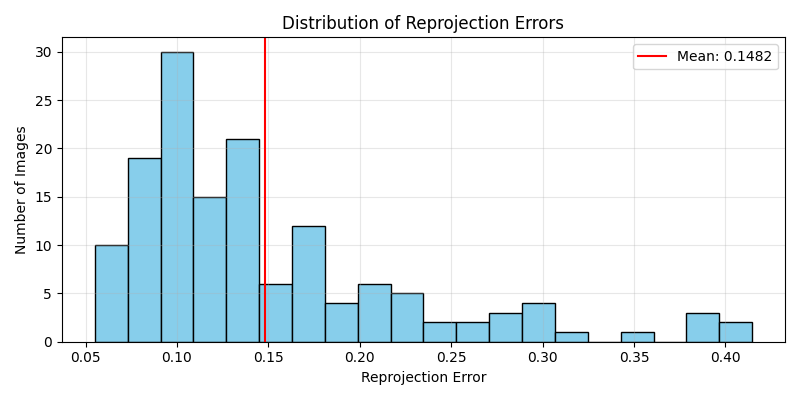
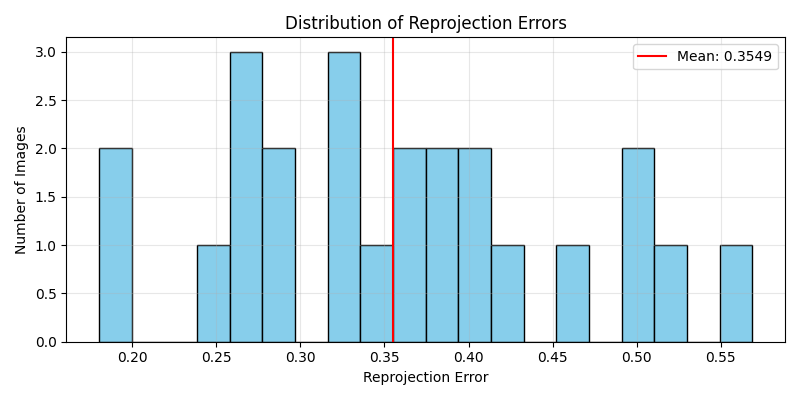
Update codes

diff --git a/camera_calibration_high.py b/camera_calibration_high.py
@@ -317,6 +317,8 @@ if __name__ == '__main__':
             "reprojection_error": float(calib_results["reprojection_error"]),
             "camera_matrix": calib_results["camera_matrix"].tolist(),
             "dist_coeffs": calib_results["dist_coeffs"].ravel().tolist(),
+            "image_height": img_size[1],
+            "image_width": img_size[0],
         }
         json.dump(json_results, f, indent=4)
     

diff --git a/extract_video.py b/extract_video.py
@@ -19,7 +19,7 @@ while True:
     if not ret:
         break
     # Save the frame with the original resolution.
-    if frame_index % 5 == 0:
+    if frame_index % 30 == 0:
 
         # Rotate the frame 90 degrees counter-clockwise
         frame = cv2.rotate(frame, cv2.ROTATE_90_COUNTERCLOCKWISE)
